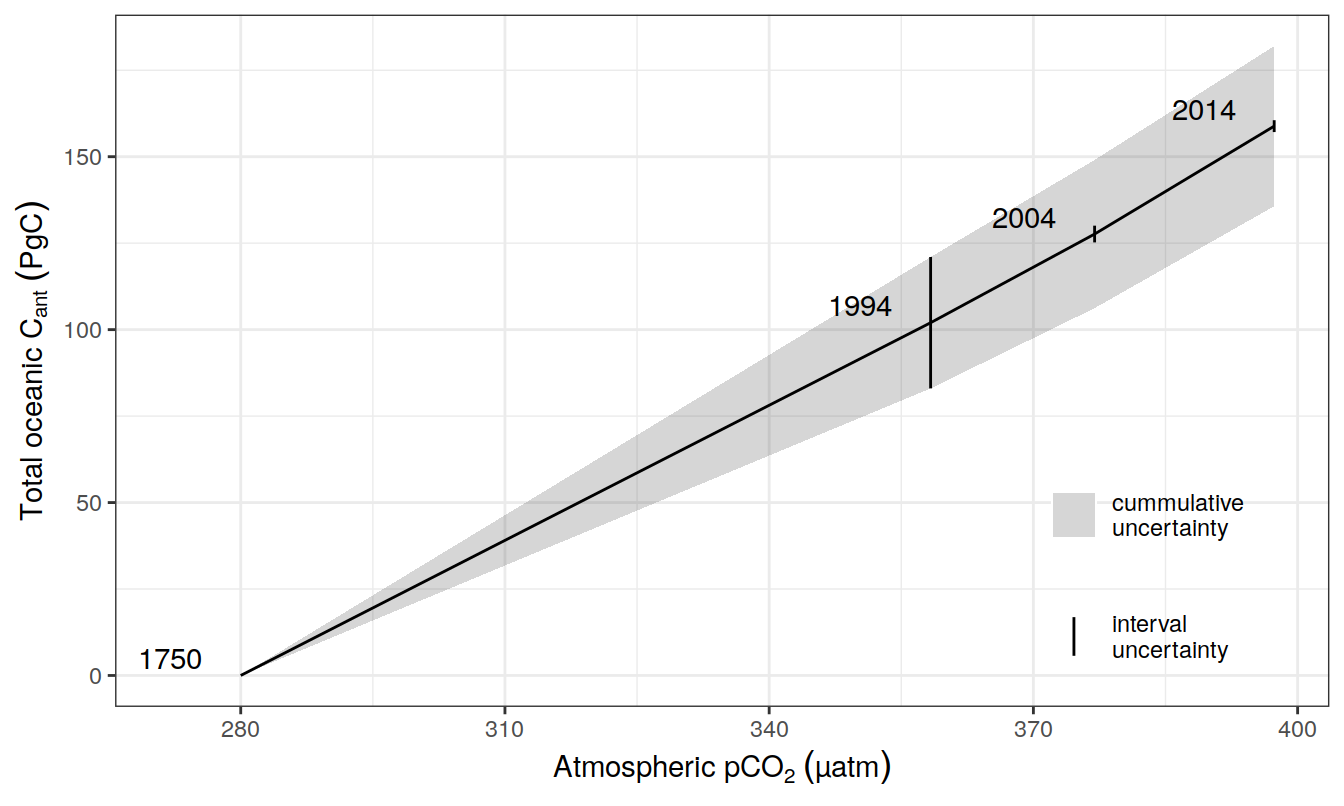
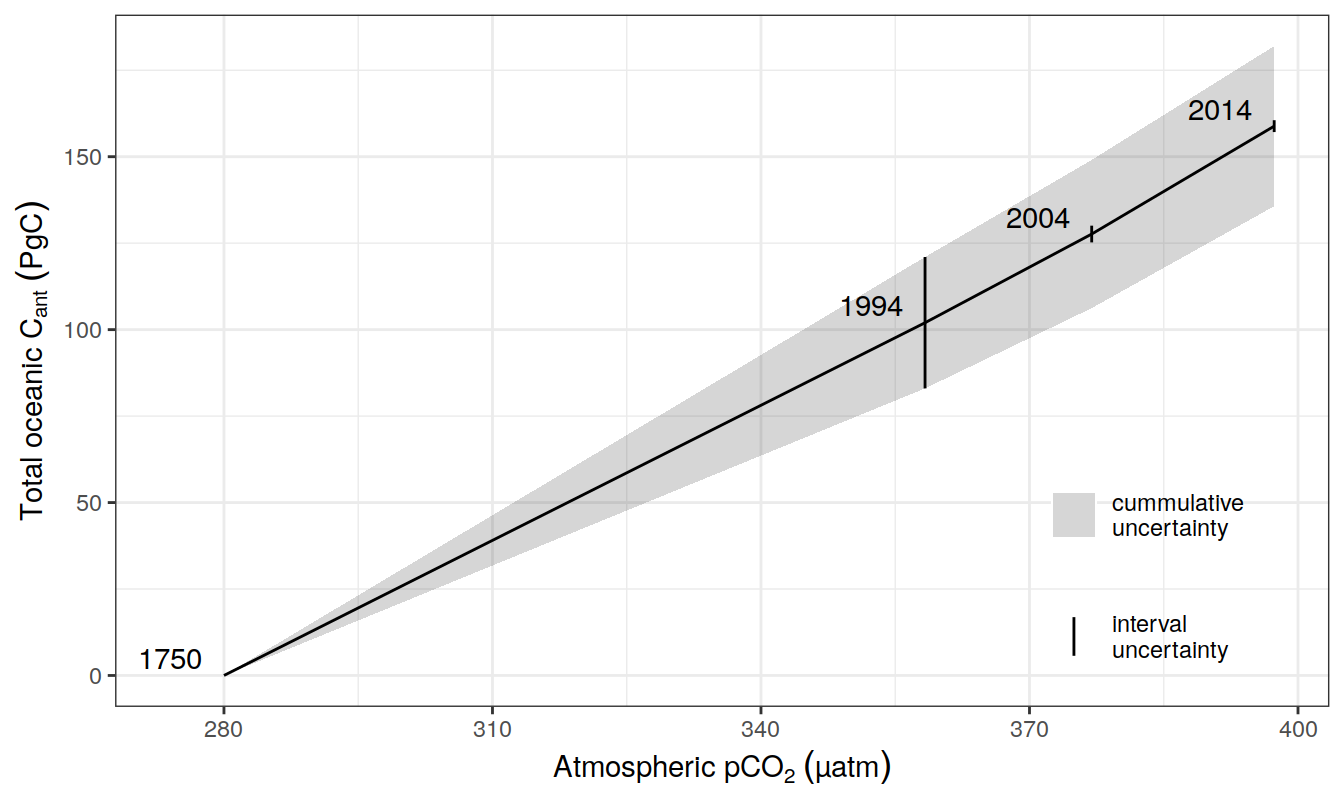
Build site.

diff --git a/docs/results_publication.html b/docs/results_publication.html
@@ -673,16 +673,16 @@ This reproducible <a href="https://rmarkdown.rstudio.com">R Markdown</a> analysi
 <div class="panel panel-default">
 <div class="panel-heading">
 <p class="panel-title">
-<a data-toggle="collapse" data-parent="#workflowr-checks" href="#strongRepositoryversionstrongahrefhttpsgithubcomjensdanielmuelleremlrobsanalysistree1185397c92fedbf5805af307cc266f3f6e3e7bb5targetblank1185397a"> <span class="glyphicon glyphicon-ok text-success" aria-hidden="true"></span> <strong>Repository version:</strong> <a href="https://github.com/jens-daniel-mueller/emlr_obs_analysis/tree/1185397c92fedbf5805af307cc266f3f6e3e7bb5" target="_blank">1185397</a> </a>
+<a data-toggle="collapse" data-parent="#workflowr-checks" href="#strongRepositoryversionstrongahrefhttpsgithubcomjensdanielmuelleremlrobsanalysistree049346ffaacbe9da0eb3779207bf3d754222a62atargetblank049346fa"> <span class="glyphicon glyphicon-ok text-success" aria-hidden="true"></span> <strong>Repository version:</strong> <a href="https://github.com/jens-daniel-mueller/emlr_obs_analysis/tree/049346ffaacbe9da0eb3779207bf3d754222a62a" target="_blank">049346f</a> </a>
 </p>
 </div>
[2 lines of base64/hex data omitted]
 <div class="panel-body">
 <p>
 Great! You are using Git for version control. Tracking code development and connecting the code version to the results is critical for reproducibility.
 </p>
 <p>
-The results in this page were generated with repository version <a href="https://github.com/jens-daniel-mueller/emlr_obs_analysis/tree/1185397c92fedbf5805af307cc266f3f6e3e7bb5" target="_blank">1185397</a>. See the <em>Past versions</em> tab to see a history of the changes made to the R Markdown and HTML files.
+The results in this page were generated with repository version <a href="https://github.com/jens-daniel-mueller/emlr_obs_analysis/tree/049346ffaacbe9da0eb3779207bf3d754222a62a" target="_blank">049346f</a>. See the <em>Past versions</em> tab to see a history of the changes made to the R Markdown and HTML files.
 </p>
 <p>
 Note that you need to be careful to ensure that all relevant files for the analysis have been committed to Git prior to generating the results (you can use <code>wflow_publish</code> or <code>wflow_git_commit</code>). workflowr only checks the R Markdown file, but you know if there are other scripts or data files that it depends on. Below is the status of the Git repository when the results were generated:
@@ -732,6 +732,40 @@ Message
 </tr>
 </thead>
 <tbody>
+<tr>
+<td>
+Rmd
+</td>
+<td>
+<a href="https://github.com/jens-daniel-mueller/emlr_obs_analysis/blob/049346ffaacbe9da0eb3779207bf3d754222a62a/analysis/results_publication.Rmd" target="_blank">049346f</a>
+</td>
+<td>
+jens-daniel-mueller
+</td>
+<td>
+2022-02-02
+</td>
+<td>
+shifted year labels
+</td>
+</tr>
+<tr>
+<td>
+html
+</td>
+<td>
+<a href="https://rawcdn.githack.com/jens-daniel-mueller/emlr_obs_analysis/4673df586fc47f2c7450ba9679f426c8abc25f19/docs/results_publication.html" target="_blank">4673df5</a>
+</td>
+<td>
+jens-daniel-mueller
+</td>
+<td>
+2022-02-02
+</td>
+<td>
+Build site.
+</td>
+</tr>
 <tr>
 <td>
 Rmd
@@ -4137,6 +4171,17 @@ Date
 <tbody>
 <tr>
 <td>
+<a href="https://github.com/jens-daniel-mueller/emlr_obs_analysis/blob/4673df586fc47f2c7450ba9679f426c8abc25f19/docs/figure/results_publication.Rmd/concentration_profiles_MLR_basins-1.png" target="_blank">4673df5</a>
+</td>
+<td>
+jens-daniel-mueller
+</td>
+<td>
+2022-02-02
+</td>
+</tr>
+<tr>
+<td>
 <a href="https://github.com/jens-daniel-mueller/emlr_obs_analysis/blob/60727e650e84cb6a328acd52616a8d24dbafc086/docs/figure/results_publication.Rmd/concentration_profiles_MLR_basins-1.png" target="_blank">60727e6</a>
 </td>
 <td>
@@ -4252,6 +4297,17 @@ Date
 </tr>
 </thead>
 <tbody>
+<tr>
+<td>
+<a href="https://github.com/jens-daniel-mueller/emlr_obs_analysis/blob/4673df586fc47f2c7450ba9679f426c8abc25f19/docs/figure/results_publication.Rmd/concentration_profiles_MLR_basins-2.png" target="_blank">4673df5</a>
+</td>
+<td>
+jens-daniel-mueller
+</td>
+<td>
+2022-02-02
+</td>
+</tr>
 <tr>
 <td>
 <a href="https://github.com/jens-daniel-mueller/emlr_obs_analysis/blob/60727e650e84cb6a328acd52616a8d24dbafc086/docs/figure/results_publication.Rmd/concentration_profiles_MLR_basins-2.png" target="_blank">60727e6</a>
@@ -6372,7 +6428,7 @@ tcant_ts %&gt;%
                      ) +
   scale_fill_grey() +
   scale_color_manual(values = &quot;black&quot;) +
-  geom_text(aes(label = year), nudge_x = -8, nudge_y = 5) +
+  geom_text(aes(label = year), nudge_x = -6, nudge_y = 5) +
   labs(x = expression(Atmospheric~pCO[2]~(µatm)),
        y = expression(Total~oceanic~C[ant]~(PgC))) +
   theme(legend.title = element_blank(),
